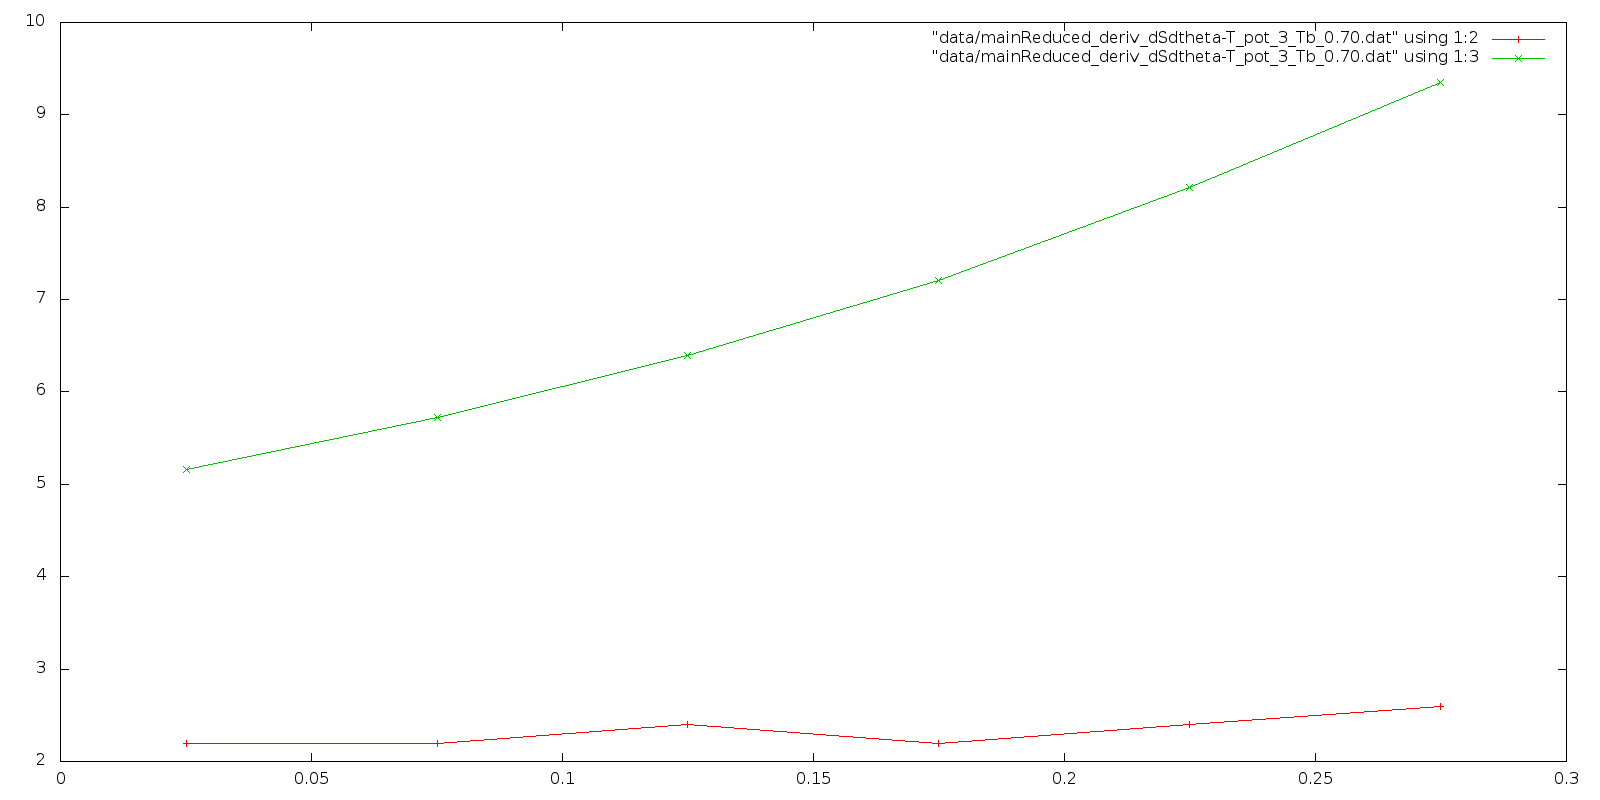
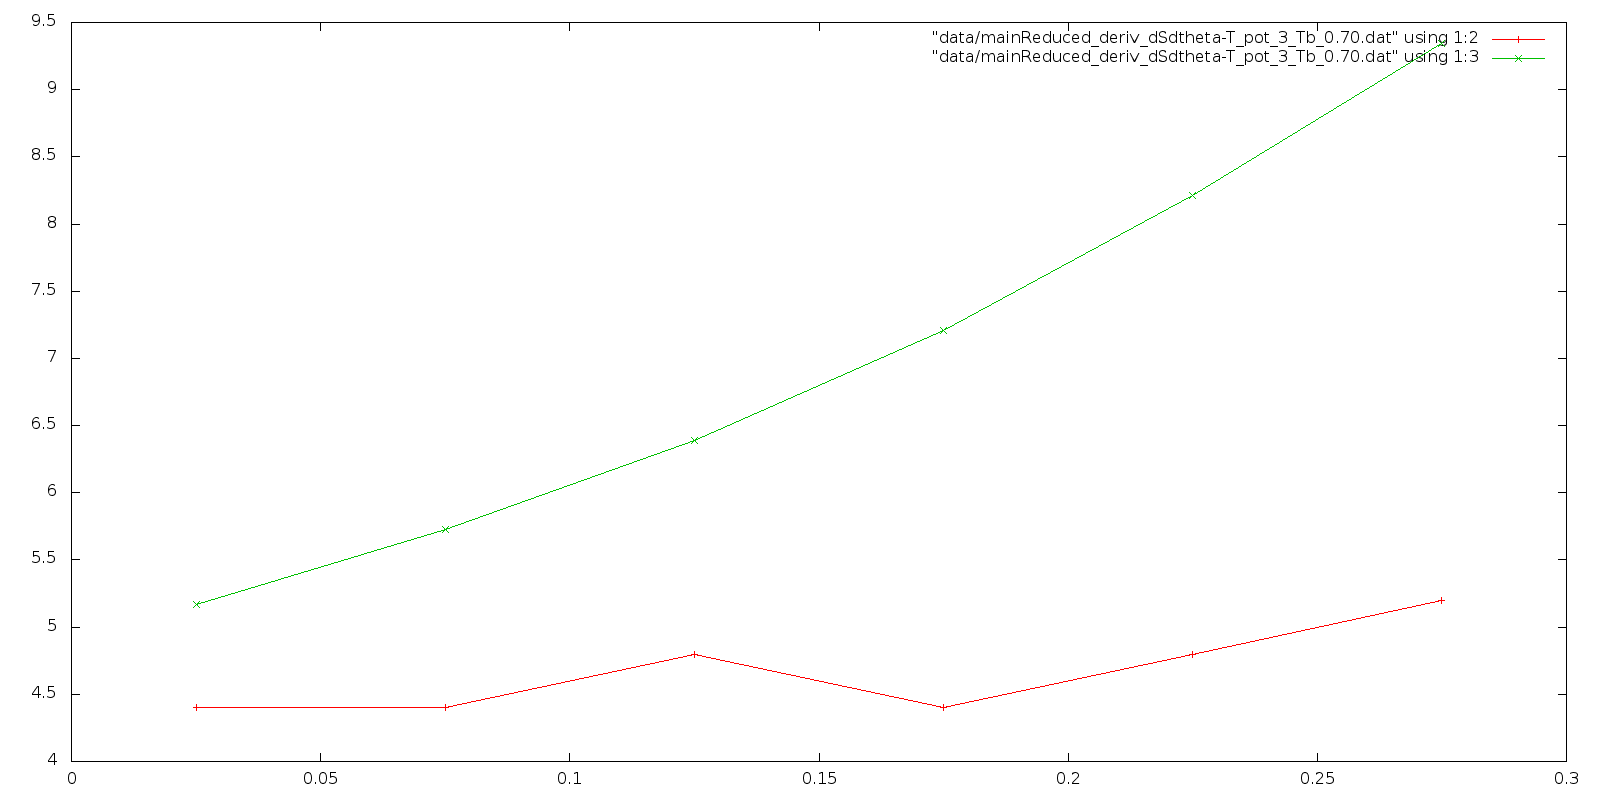
added data for pis down to Tb=0.68

Changed region(s): [[0.8125, 0.9688, 0.8438, 1.0], [0.5, 0.9688, 0.5312, 1.0], [0.1875, 0.9688, 0.2188, 1.0]]

diff --git a/src/analysis.cc b/src/analysis.cc
@@ -127,8 +127,8 @@ load(f,so,data);
 			- dWdE|N = -T
 			- dWdN|E = -theta
 			- dN/dE|W = -T/theta
-			- dS/dT|theta = E
-			- dS/dtheta|T = N
+			- 2dS/dT|theta = E
+			- 2dS/dtheta|T = N
 	
 	n.b. T = 2Tb
 -------------------------------------------------------------------------------------------------------------------------*/
@@ -143,6 +143,10 @@ for (uint j=0; j<(data.rows()-1); j++) {
 		rhs(j) /= (data(j+1,colRhs2)+data(j,colRhs2))/2.0;
 	if (deriv.compare("dWdE-N")==0 || deriv.compare("dWdN-E")==0 || deriv.compare("dNdE-W")==0)
 		rhs(j) *= -1.0;
+	if (colX==colS || colX==colTb)
+		dXdY_Z(j) *= 2.0;
+	if (colY==colS || colX==colTb)
+		dXdY_Z(j) /= 2.0;
 	if (colRhs==colTb)
 		rhs(j) *= 2.0;
 	if (colRhs2==colTb)
